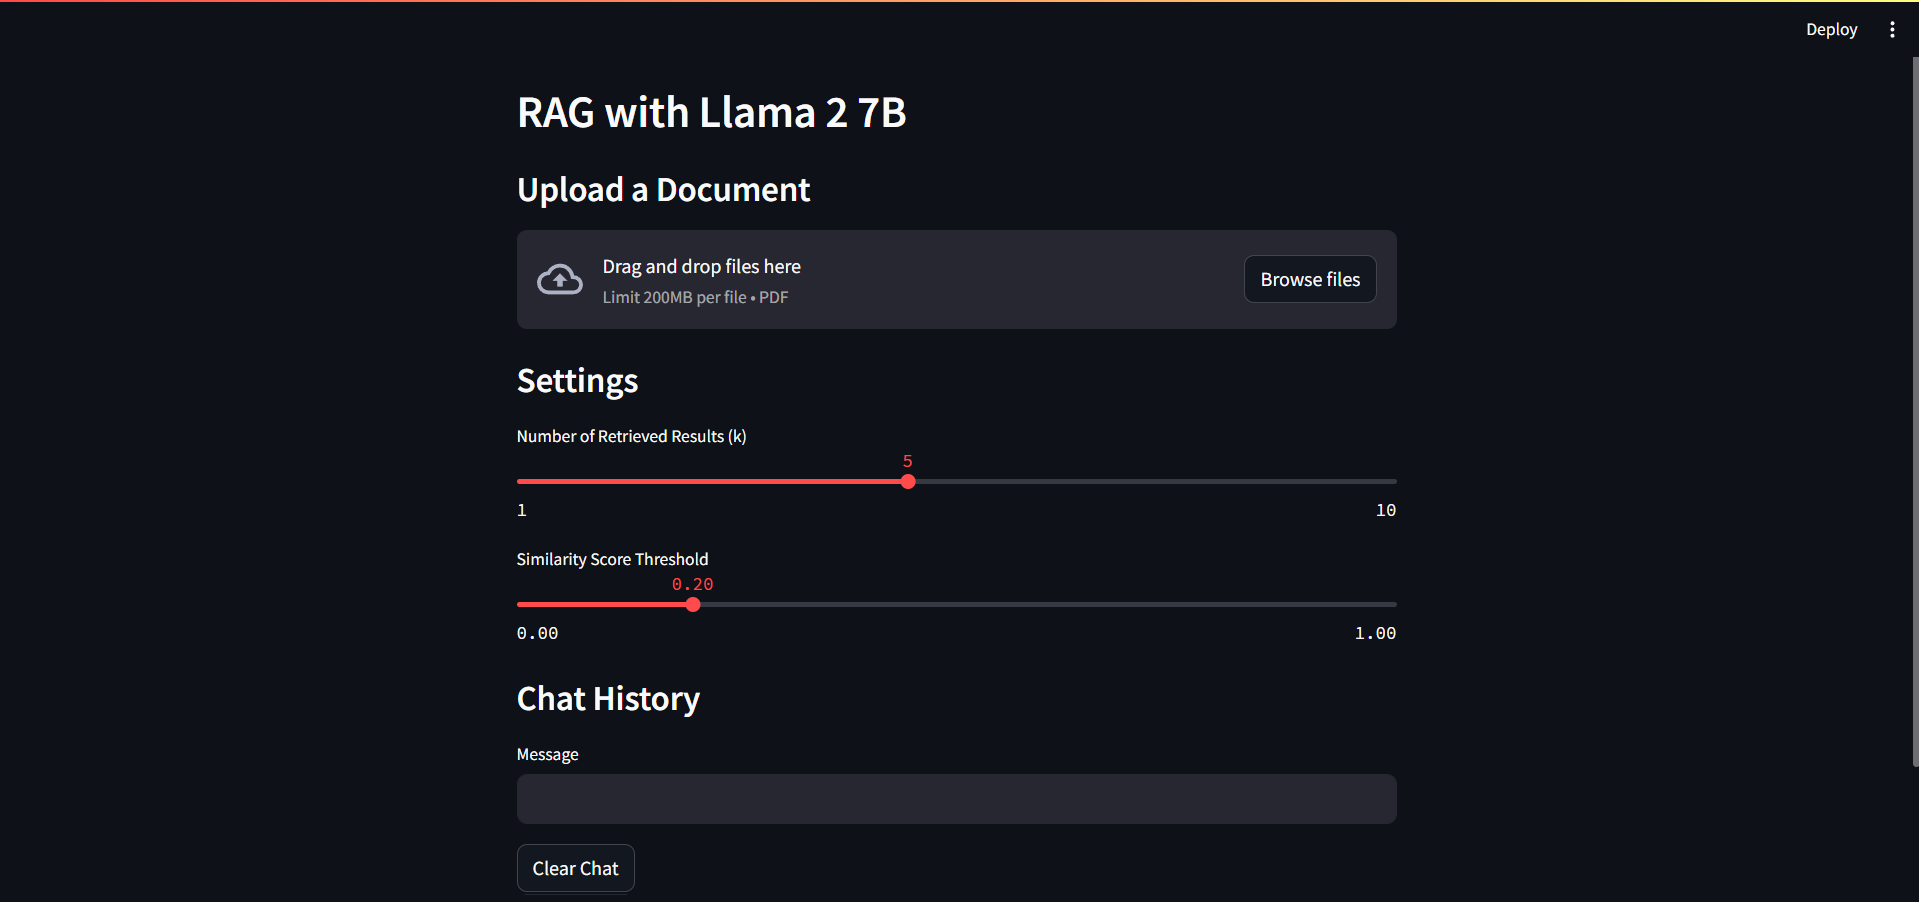
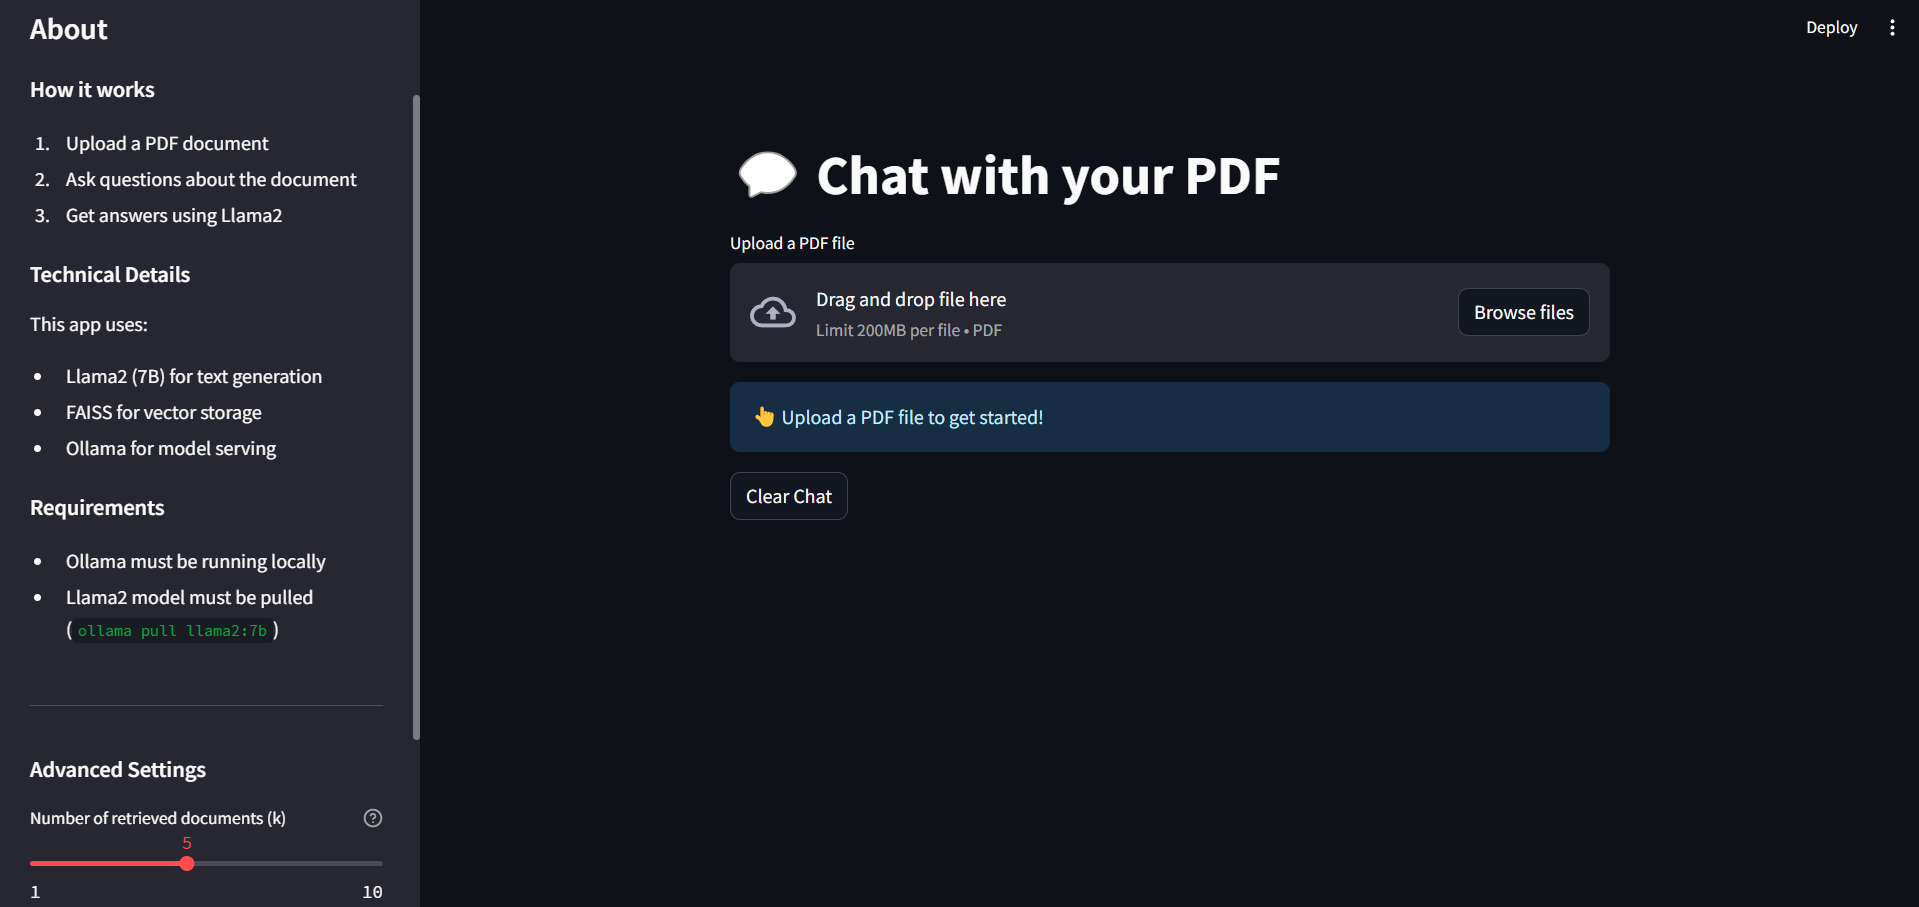
vectordb and minor changes

diff --git a/rag.py b/rag.py
@@ -2,7 +2,7 @@
 from langchain_core.globals import set_verbose, set_debug
 from langchain_ollama import ChatOllama, OllamaEmbeddings
 from langchain.schema.output_parser import StrOutputParser
-from langchain_community.vectorstores import Chroma
+from langchain_community.vectorstores import FAISS
 from langchain_community.document_loaders import PyPDFLoader
 from langchain.text_splitter import RecursiveCharacterTextSplitter
 from langchain.schema.runnable import RunnablePassthrough
@@ -20,26 +20,29 @@ logger = logging.getLogger(__name__)
 class ChatPDF:
     """A class for handling PDF ingestion and question answering using RAG."""
 
-    def __init__(self, llm_model: str = "llama2:7b", embedding_model: str = "llama2:7b"):
+    def __init__(self, llm_model: str = "llama2:7b"):
         """
         Initialize the ChatPDF instance with Llama 2 7B model.
         """
-        # Use llama2:7b for both chat and embeddings
+        # Use llama2 for both chat and embeddings
         self.model = ChatOllama(
             model=llm_model,
             temperature=0.1,
             num_ctx=4096  # Increased context window
         )
+        
         self.embeddings = OllamaEmbeddings(
-            model=embedding_model,
+            model=llm_model,
             num_ctx=4096  # Increased context window
         )
-        # Optimize chunk size for llama2 model
+        
+        # Optimize chunk size
         self.text_splitter = RecursiveCharacterTextSplitter(
             chunk_size=512,
             chunk_overlap=200,
             length_function=len
         )
+        
         self.prompt = ChatPromptTemplate.from_template(
             """
             You are a helpful assistant answering questions based on the uploaded document.
@@ -68,56 +71,98 @@ class ChatPDF:
         """
         Ingest a PDF file, split its contents, and store the embeddings in the vector store.
         """
-        logger.info(f"Starting ingestion for file: {pdf_file_path}")
-        docs = PyPDFLoader(file_path=pdf_file_path).load()
-        logger.info(f"Loaded {len(docs)} pages from PDF")
-        
-        chunks = self.text_splitter.split_documents(docs)
-        logger.info(f"Split into {len(chunks)} chunks")
-        chunks = filter_complex_metadata(chunks)
+        try:
+            logger.info(f"Starting ingestion for file: {pdf_file_path}")
+            
+            # Load PDF and log its content
+            docs = PyPDFLoader(file_path=pdf_file_path).load()
+            logger.info(f"Loaded {len(docs)} pages from PDF")
+            for i, doc in enumerate(docs):
+                logger.info(f"Page {i+1} preview: {doc.page_content[:100]}...")
+            
+            # Split into chunks and log
+            chunks = self.text_splitter.split_documents(docs)
+            logger.info(f"Split into {len(chunks)} chunks")
+            for i, chunk in enumerate(chunks):
+                logger.info(f"Chunk {i+1} preview: {chunk.page_content[:100]}...")
+            
+            chunks = filter_complex_metadata(chunks)
+            logger.info(f"Filtered chunks count: {len(chunks)}")
 
-        self.vector_store = Chroma.from_documents(
-            documents=chunks,
-            embedding=self.embeddings,
-            persist_directory="chroma_db",
-        )
-        logger.info(f"Created vector store with {len(chunks)} embeddings")
+            # Create vector store and log
+            self.vector_store = FAISS.from_documents(
+                documents=chunks,
+                embedding=self.embeddings
+            )
+            logger.info(f"Created vector store with {len(chunks)} embeddings")
+            
+            # Test vector store
+            test_query = "test query"
+            test_results = self.vector_store.similarity_search(test_query, k=1)
+            logger.info(f"Vector store test search successful. Found {len(test_results)} results.")
+            
+        except Exception as e:
+            logger.error(f"Error during PDF ingestion: {str(e)}")
+            raise
 
-    def ask(self, query: str, k: int = 5, score_threshold: float = 0.2):
+    def ask(self, query: str, k: int = 5, score_threshold: float = 0.1):
         """
         Answer a query using the RAG pipeline.
+        
+        Args:
+            query: The user's question
+            k: Number of documents to retrieve
+            score_threshold: Minimum similarity score for retrieved documents (default: 0.1)
         """
         if not self.vector_store:
+            logger.error("No vector store found")
             raise ValueError("No vector store found. Please ingest a document first.")
 
-        if not self.retriever:
+        try:
+            # First try with score threshold
             self.retriever = self.vector_store.as_retriever(
-                search_type="mmr",  # Use MMR for better diversity in results
+                search_type="similarity",
                 search_kwargs={
                     "k": k,
-                    "fetch_k": k * 2,  # Fetch more candidates for MMR to choose from
-                    "lambda_mult": 0.7  # Balance between relevance and diversity
+                    "score_threshold": score_threshold
                 }
             )
+            logger.info(f"Created retriever with k={k} and score_threshold={score_threshold}")
 
-        logger.info(f"Retrieving context for query: {query}")
-        try:
+            # Log the query
+            logger.info(f"Processing query: {query}")
+            
+            # Get documents and log them
             retrieved_docs = self.retriever.invoke(query)
             logger.info(f"Retrieved {len(retrieved_docs)} documents")
             
+            # If no documents found with score threshold, try without it
             if not retrieved_docs:
+                logger.info("No documents found with score threshold, trying without threshold")
+                self.retriever = self.vector_store.as_retriever(
+                    search_type="similarity",
+                    search_kwargs={"k": k}
+                )
+                retrieved_docs = self.retriever.invoke(query)
+                logger.info(f"Retrieved {len(retrieved_docs)} documents without threshold")
+
+            if not retrieved_docs:
+                logger.warning("No relevant documents found for the query")
                 return "I could not find any relevant information in the document to answer your question. Please try rephrasing your question."
 
-            # Log retrieved content for debugging
+            # Log each retrieved document with its score if available
             for i, doc in enumerate(retrieved_docs):
-                logger.info(f"Chunk {i+1} content preview: {doc.page_content[:100]}...")
+                logger.info(f"Retrieved doc {i+1}:")
+                logger.info(f"Content preview: {doc.page_content[:200]}...")
+                if hasattr(doc, 'metadata'):
+                    logger.info(f"Metadata: {doc.metadata}")
 
             formatted_input = {
                 "context": "\n\n".join(doc.page_content for doc in retrieved_docs),
                 "question": query,
             }
 
-            # Build the RAG chain
+            # Build and run the chain
             chain = (
                 RunnablePassthrough()
                 | self.prompt
@@ -127,11 +172,12 @@ class ChatPDF:
 
             logger.info("Generating response using the LLM")
             response = chain.invoke(formatted_input)
-            logger.info("Successfully generated response")
+            logger.info(f"Generated response: {response[:200]}...")
             return response
 
         except Exception as e:
             logger.error(f"Error during retrieval or response generation: {str(e)}")
+            logger.exception("Full traceback:")
             return f"An error occurred while processing your question: {str(e)}"
 
     def clear(self):

diff --git a/app.py b/app.py
@@ -1,13 +1,25 @@
 # app.py
 import os
 import tempfile
-import time
 import streamlit as st
 from streamlit_chat import message
 from rag import ChatPDF
 
-st.set_page_config(page_title="RAG with Llama 2 7B")
+# Set page configuration
+st.set_page_config(page_title="PDF Assistant")
 
+# Initialize session state
+if "messages" not in st.session_state:
+    st.session_state["messages"] = []
+
+if "assistant" not in st.session_state:
+    st.session_state["assistant"] = ChatPDF()
+
+if "k" not in st.session_state:
+    st.session_state["k"] = 5
+
+if "score_threshold" not in st.session_state:
+    st.session_state["score_threshold"] = 0.1
 
 def display_messages():
     """Display the chat history."""
@@ -16,85 +28,97 @@ def display_messages():
         message(msg, is_user=is_user, key=str(i))
     st.session_state["thinking_spinner"] = st.empty()
 
-
 def process_input():
-    """Process the user input and generate an assistant response."""
+    """Process the user input."""
     if st.session_state["user_input"] and len(st.session_state["user_input"].strip()) > 0:
-        user_text = st.session_state["user_input"].strip()
+        user_input = st.session_state["user_input"].strip()
+        st.session_state["messages"].append((user_input, True))
+        
         with st.session_state["thinking_spinner"], st.spinner("Thinking..."):
-            try:
-                agent_text = st.session_state["assistant"].ask(
-                    user_text,
-                    k=st.session_state["retrieval_k"],
-                    score_threshold=st.session_state["retrieval_threshold"],
-                )
-            except ValueError as e:
-                agent_text = str(e)
+            response = st.session_state["assistant"].ask(
+                user_input,
+                k=st.session_state["k"],
+                score_threshold=st.session_state["score_threshold"]
+            )
+            
+        st.session_state["messages"].append((response, False))
+        st.session_state["user_input"] = ""
 
-        st.session_state["messages"].append((user_text, True))
-        st.session_state["messages"].append((agent_text, False))
+# Sidebar with information and controls
+with st.sidebar:
+    st.title("About")
+    st.markdown("""
+    ### How it works
+    1. Upload a PDF document
+    2. Ask questions about the document
+    3. Get answers using Llama2
+    
+    ### Technical Details
+    This app uses:
+    - Llama2 (7B) for text generation
+    - FAISS for vector storage
+    - Ollama for model serving
+    
+    ### Requirements
+    - Ollama must be running locally
+    - Llama2 model must be pulled (`ollama pull llama2:7b`)
+    """)
+    
+    st.divider()
+    st.subheader("Advanced Settings")
+    
+    # Number of retrieved documents
+    st.session_state["k"] = st.slider(
+        "Number of retrieved documents (k)",
+        min_value=1,
+        max_value=10,
+        value=5,
+        help="Number of document chunks to retrieve for each question"
+    )
+    
+    # Score threshold
+    st.session_state["score_threshold"] = st.slider(
+        "Similarity score threshold",
+        min_value=0.0,
+        max_value=1.0,
+        value=0.1,
+        step=0.05,
+        help="Minimum similarity score for retrieved documents (lower = more results but potentially less relevant)"
+    )
 
+# Main interface
+st.title("💬 Chat with your PDF")
 
-def read_and_save_file():
-    """Handle file upload and ingestion."""
-    st.session_state["assistant"].clear()
+# File upload
+uploaded_file = st.file_uploader("Upload a PDF file", type=["pdf"])
+
+if uploaded_file:
+    # Create a temporary file to store the uploaded PDF
+    with tempfile.NamedTemporaryFile(delete=False, suffix=".pdf") as tmp_file:
+        tmp_file.write(uploaded_file.read())
+        tmp_file_path = tmp_file.name
+    
+    try:
+        with st.spinner("Processing PDF..."):
+            st.session_state["assistant"].ingest(tmp_file_path)
+        st.success("PDF processed successfully!")
+        
+        # Display chat interface
+        display_messages()
+        
+        # Chat input
+        st.text_input("Ask a question about your PDF:", key="user_input", on_change=process_input)
+        
+    except Exception as e:
+        st.error(f"Error processing PDF: {str(e)}")
+    finally:
+        # Clean up the temporary file
+        os.unlink(tmp_file_path)
+else:
+    st.info("👆 Upload a PDF file to get started!")
+
+# Add a clear chat button
+if st.button("Clear Chat"):
     st.session_state["messages"] = []
-    st.session_state["user_input"] = ""
-
-    for file in st.session_state["file_uploader"]:
-        with tempfile.NamedTemporaryFile(delete=False) as tf:
-            tf.write(file.getbuffer())
-            file_path = tf.name
-
-        with st.session_state["ingestion_spinner"], st.spinner(f"Ingesting {file.name}..."):
-            t0 = time.time()
-            st.session_state["assistant"].ingest(file_path)
-            t1 = time.time()
-
-        st.session_state["messages"].append(
-            (f"Ingested {file.name} in {t1 - t0:.2f} seconds", False)
-        )
-        os.remove(file_path)
-
-
-def page():
-    """Main app page layout."""
-    if len(st.session_state) == 0:
-        st.session_state["messages"] = []
-        st.session_state["assistant"] = ChatPDF()
-
-    st.header("RAG with Llama 2 7B")
-
-    st.subheader("Upload a Document")
-    st.file_uploader(
-        "Upload a PDF document",
-        type=["pdf"],
-        key="file_uploader",
-        on_change=read_and_save_file,
-        label_visibility="collapsed",
-        accept_multiple_files=True,
-    )
-
-    st.session_state["ingestion_spinner"] = st.empty()
-
-    # Retrieval settings
-    st.subheader("Settings")
-    st.session_state["retrieval_k"] = st.slider(
-        "Number of Retrieved Results (k)", min_value=1, max_value=10, value=5
-    )
-    st.session_state["retrieval_threshold"] = st.slider(
-        "Similarity Score Threshold", min_value=0.0, max_value=1.0, value=0.2, step=0.05
-    )
-
-    # Display messages and text input
-    display_messages()
-    st.text_input("Message", key="user_input", on_change=process_input)
-
-    # Clear chat
-    if st.button("Clear Chat"):
-        st.session_state["messages"] = []
-        st.session_state["assistant"].clear()
-
-
-if __name__ == "__main__":
-    page()
+    st.session_state["assistant"].clear()
+    st.experimental_rerun()
